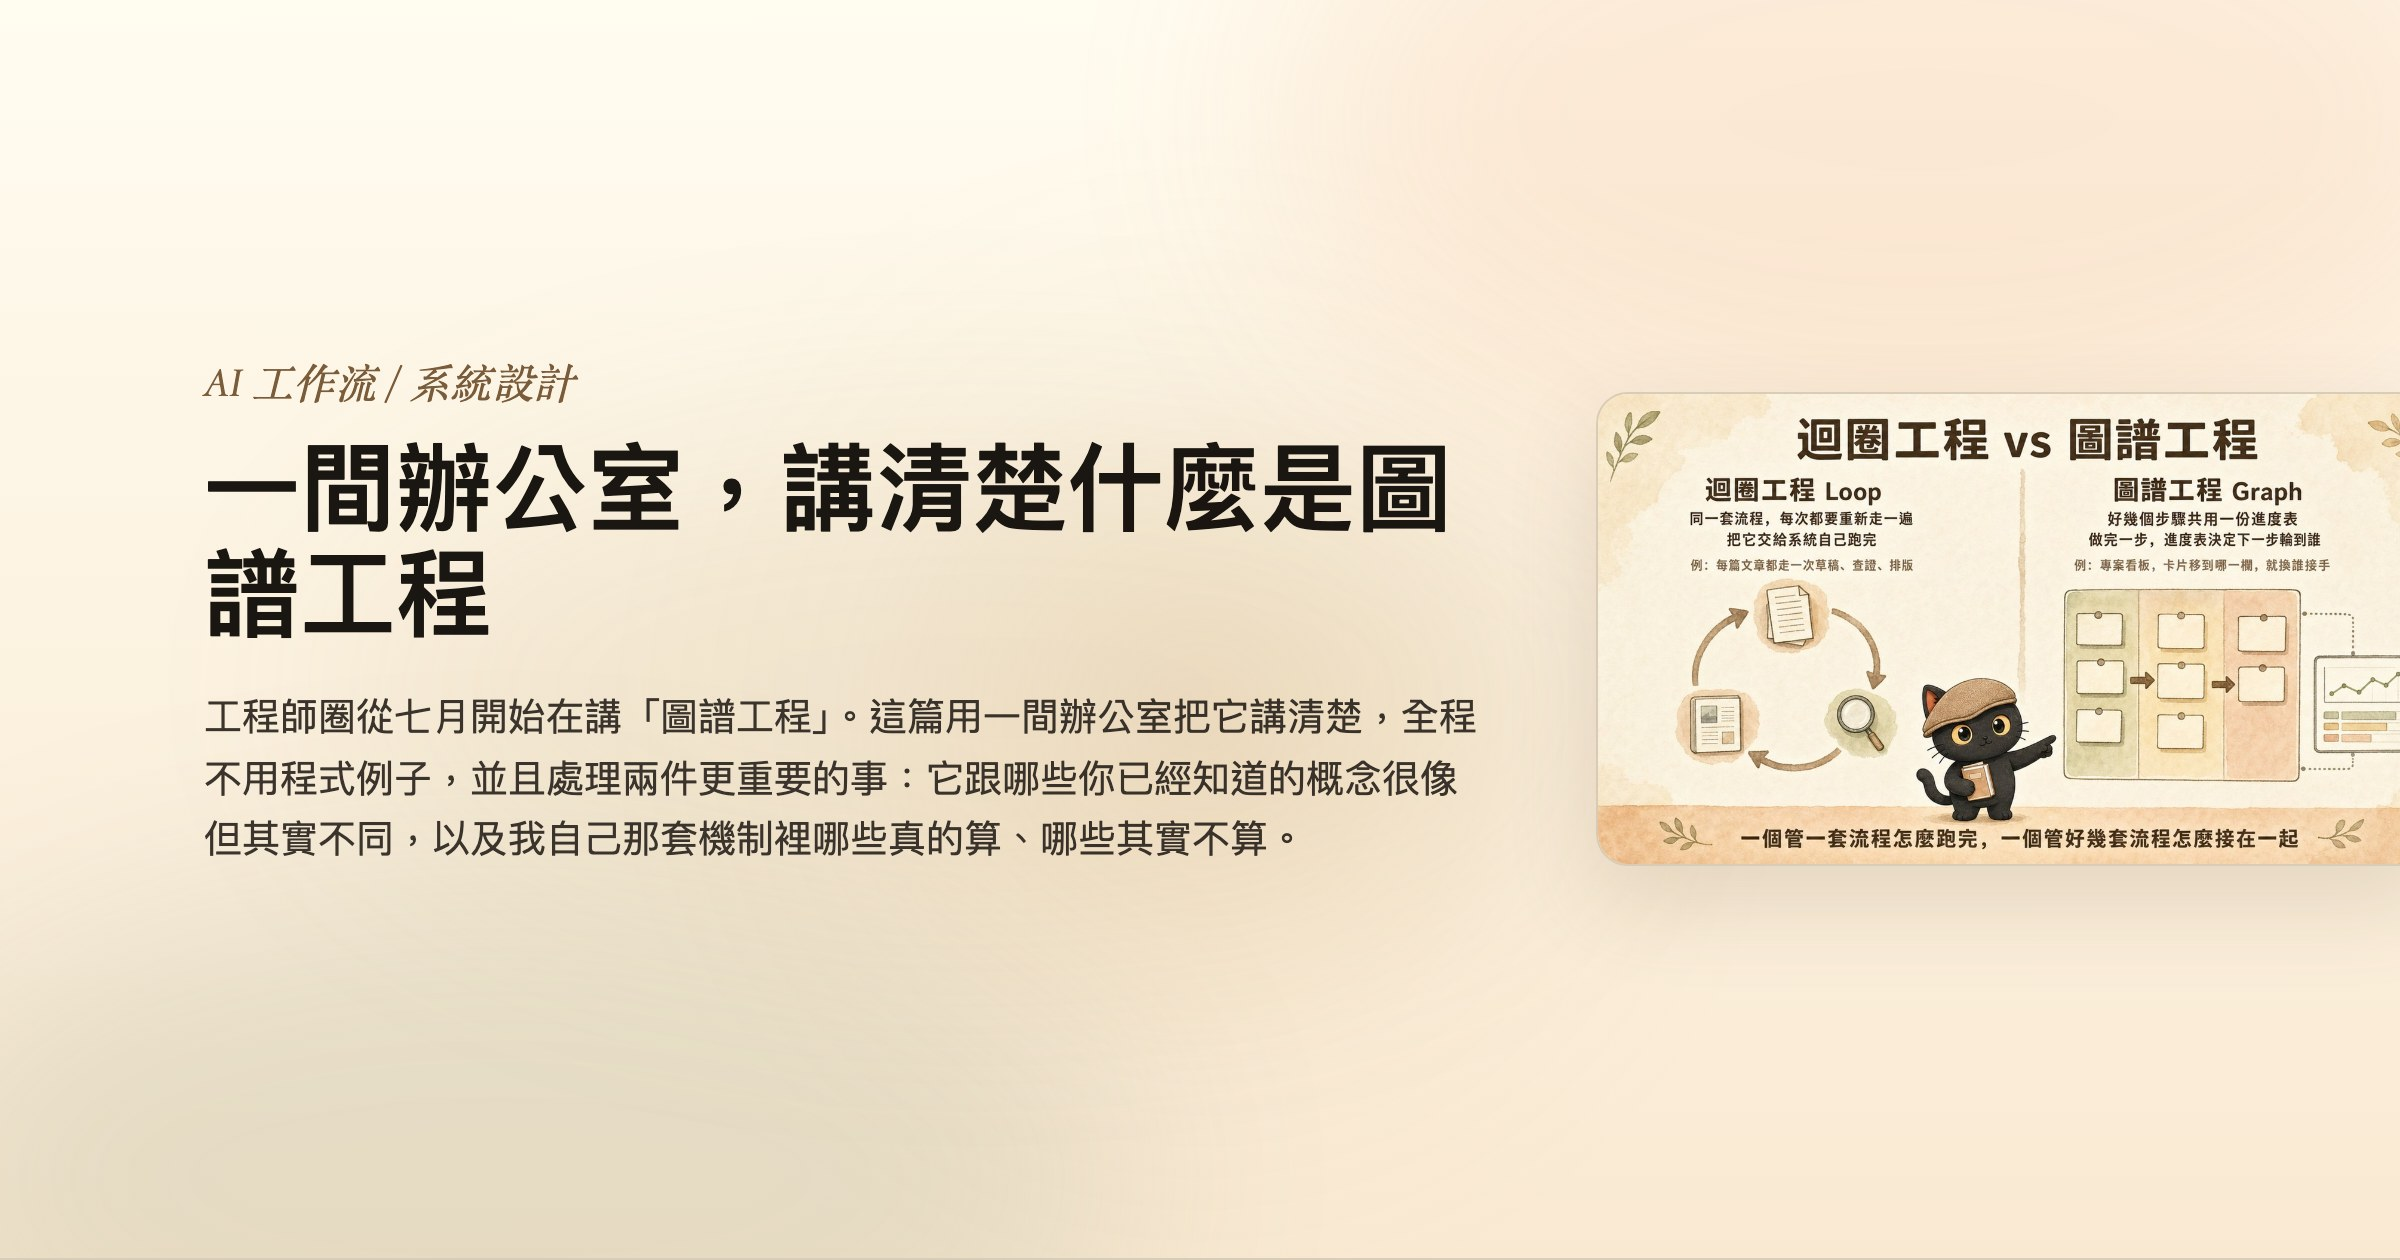
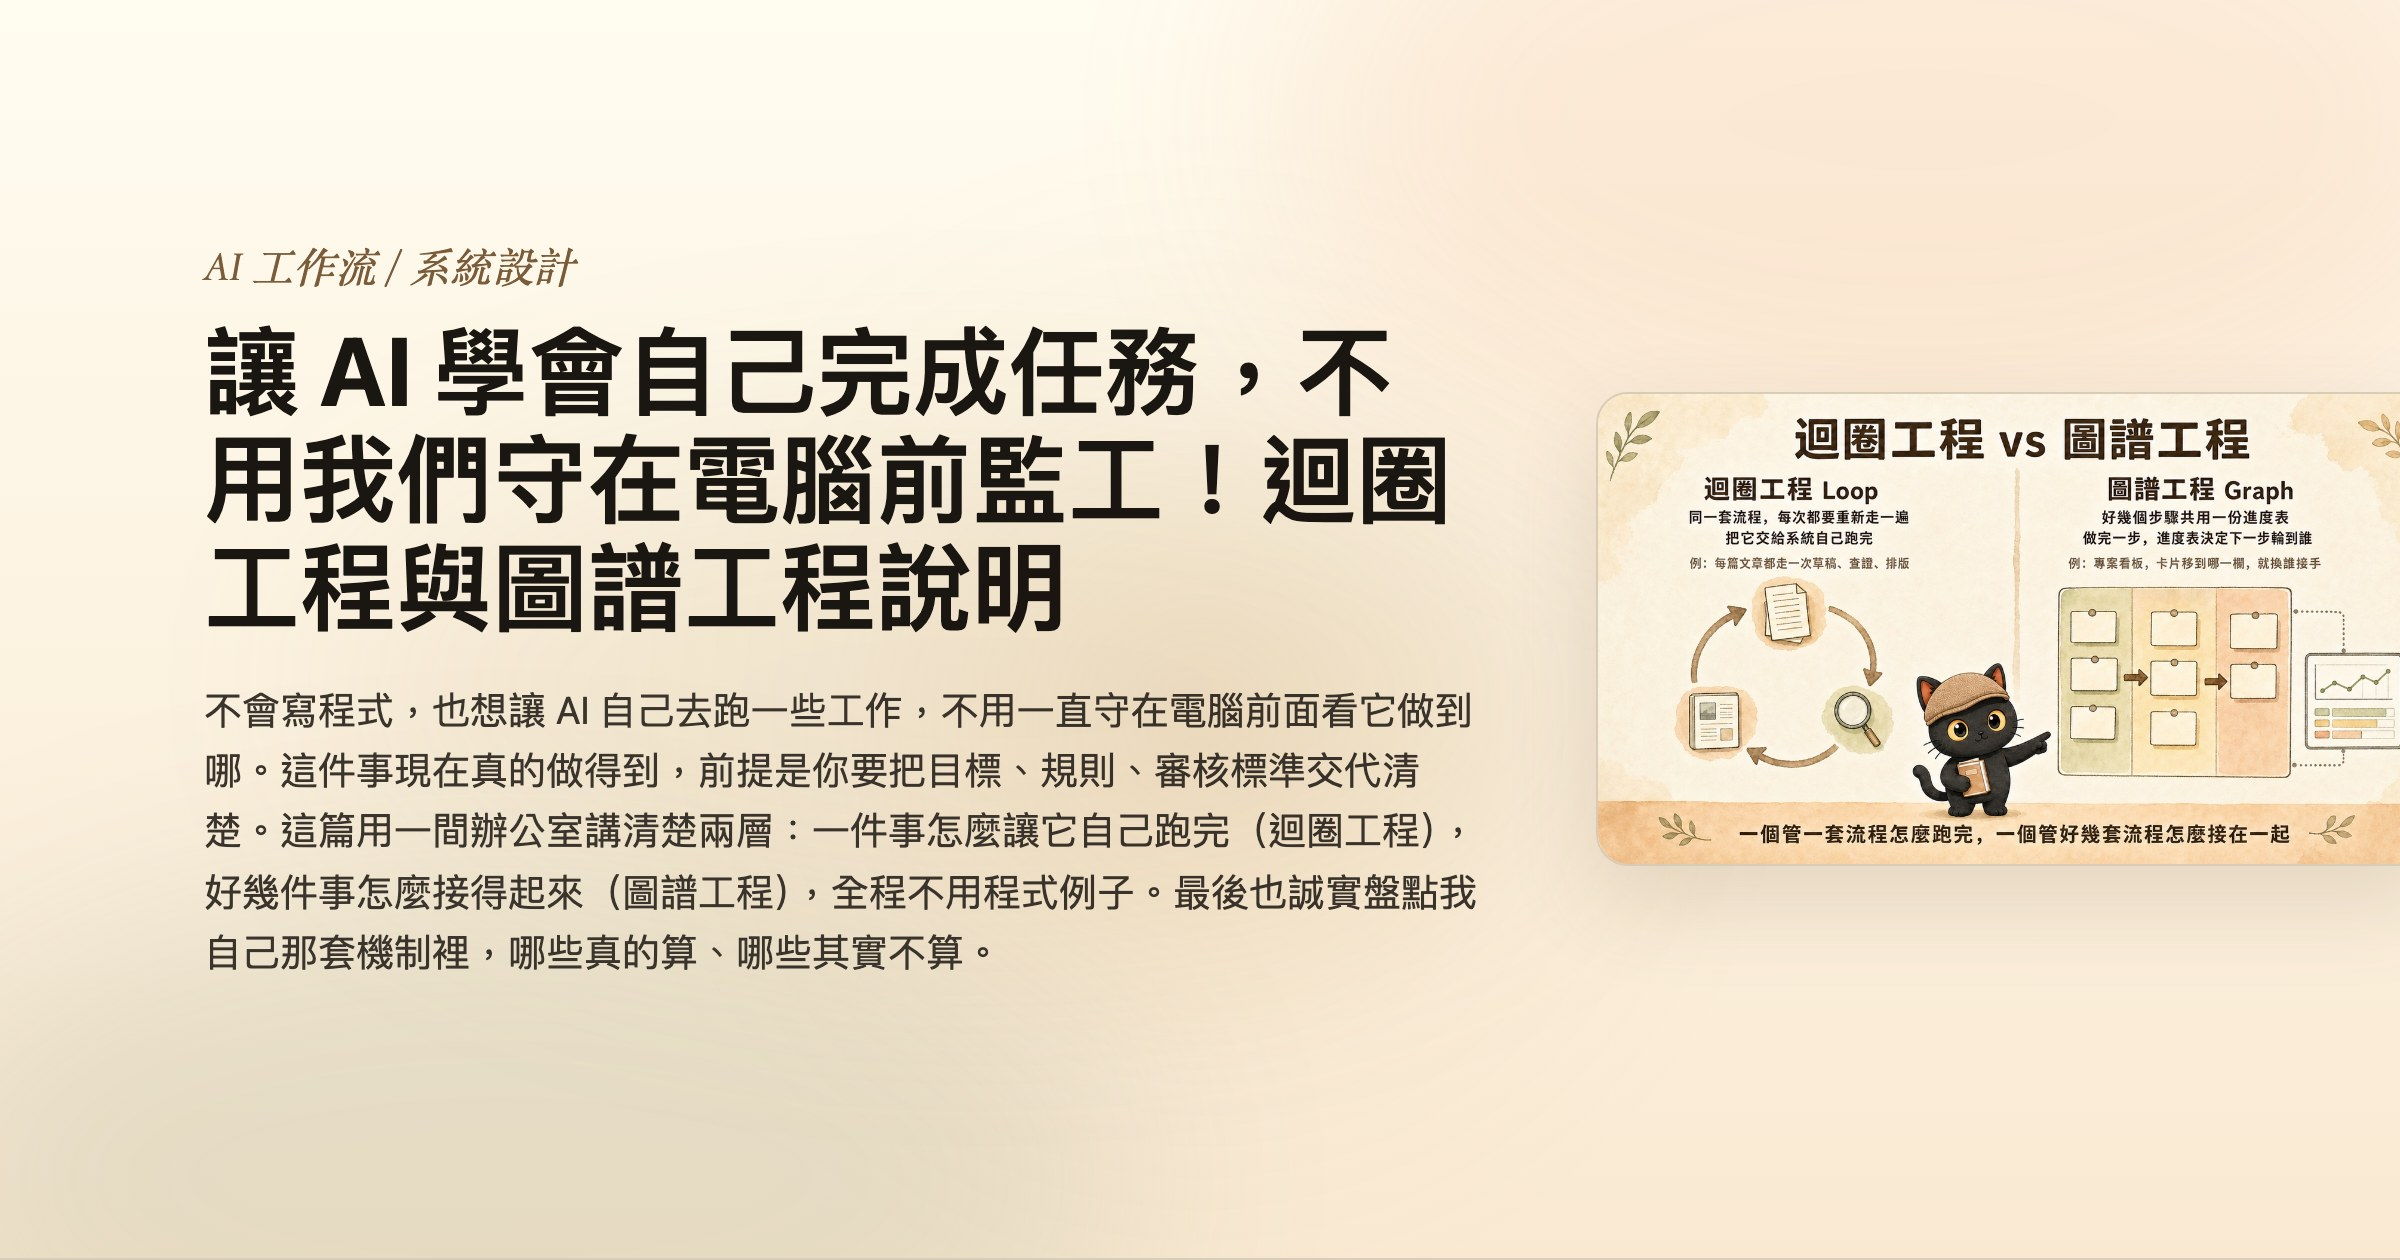
圖譜工程文章改標題與簡介、封面重生（咪卡補回雙耳）

Changed region(s): [[0.0625, 0.1857, 0.625, 0.7738], [0.6875, 0.3095, 1.0, 0.681], [0.9688, 0.3095, 1.0, 0.3714]]

diff --git a/articles/what-is-graph-engineering/index.html b/articles/what-is-graph-engineering/index.html
@@ -4,22 +4,22 @@
 <meta charset="utf-8">
 <meta name="viewport" content="width=device-width,initial-scale=1">
 <meta name="robots" content="index,follow">
-<title>一間辦公室，講清楚什麼是圖譜工程｜江江教練 · AI 知識管理</title>
-<meta name="description" content="圖譜工程聽起來是新名詞，核心跟寫程式沒關係。用一間辦公室講清楚：桌上的交接本是狀態、牆上的派工規則表是邊、上場的助理是節點。再切開六個容易混淆的概念（知識圖譜、迴圈工程、專案管理、互相監督、自動化、狀態機），最後誠實盤點我自己那套機制裡哪些真的算、哪些不算。">
+<title>讓 AI 學會自己完成任務，不用我們守在電腦前監工！迴圈工程與圖譜工程說明｜江江教練 · AI 知識管理</title>
+<meta name="description" content="不會寫程式，也能讓 AI 自己把一件事跑完。只要把目標、規則、審核標準寫清楚，AI 會自己跑、自己檢查、自己修正。這篇用一間辦公室講清楚兩層：迴圈工程讓一件事自己跑完，圖譜工程讓好幾件事接得起來。">
 <link rel="canonical" href="https://jiangyude.com/articles/what-is-graph-engineering/">
 <meta property="og:type" content="article">
-<meta property="og:title" content="一間辦公室，講清楚什麼是圖譜工程｜江江教練">
+<meta property="og:title" content="讓 AI 學會自己完成任務，不用我們守在電腦前監工！迴圈工程與圖譜工程說明｜江江教練">
 <!-- 分享封面：hero 文字填好後在 repo 根目錄跑 `node scripts/og-shot.mjs what-is-graph-engineering` 自動截 1200×630 到 images/og/what-is-graph-engineering.jpg（見 README「文章分享封面（OG 圖）機制」）。別退回 intro-jiang.png 直式人像，會被裁成只剩脖子。 -->
 <meta property="og:image" content="https://jiangyude.com/images/og/what-is-graph-engineering.jpg">
-<meta property="og:description" content="圖譜工程聽起來是新名詞，核心跟寫程式沒關係。用一間辦公室講清楚：桌上的交接本是狀態、牆上的派工規則表是邊、上場的助理是節點。再切開六個容易混淆的概念（知識圖譜、迴圈工程、專案管理、互相監督、自動化、狀態機），最後誠實盤點我自己那套機制裡哪些真的算、哪些不算。">
+<meta property="og:description" content="不會寫程式，也能讓 AI 自己把一件事跑完。只要把目標、規則、審核標準寫清楚，AI 會自己跑、自己檢查、自己修正。這篇用一間辦公室講清楚兩層：迴圈工程讓一件事自己跑完，圖譜工程讓好幾件事接得起來。">
 <meta property="og:url" content="https://jiangyude.com/articles/what-is-graph-engineering/">
 <meta property="og:locale" content="zh_TW">
 <meta property="og:site_name" content="江江教練 · AI 知識管理">
 <meta name="twitter:card" content="summary_large_image">
-<meta name="twitter:title" content="一間辦公室，講清楚什麼是圖譜工程｜江江教練">
+<meta name="twitter:title" content="讓 AI 學會自己完成任務，不用我們守在電腦前監工！迴圈工程與圖譜工程說明｜江江教練">
 <meta name="twitter:image" content="https://jiangyude.com/images/og/what-is-graph-engineering.jpg">
-<meta name="twitter:description" content="圖譜工程聽起來是新名詞，核心跟寫程式沒關係。用一間辦公室講清楚：桌上的交接本是狀態、牆上的派工規則表是邊、上場的助理是節點。再切開六個容易混淆的概念（知識圖譜、迴圈工程、專案管理、互相監督、自動化、狀態機），最後誠實盤點我自己那套機制裡哪些真的算、哪些不算。">
-<script type="application/ld+json">{"@context":"https://schema.org","@type":"Article","headline":"一間辦公室，講清楚什麼是圖譜工程","description":"圖譜工程聽起來是新名詞，核心跟寫程式沒關係。用一間辦公室講清楚：桌上的交接本是狀態、牆上的派工規則表是邊、上場的助理是節點。再切開六個容易混淆的概念（知識圖譜、迴圈工程、專案管理、互相監督、自動化、狀態機），最後誠實盤點我自己那套機制裡哪些真的算、哪些不算。","author":{"@type":"Person","name":"江昱德","alternateName":"江江教練","jobTitle":"隱性知識提煉師、AI 應用規劃師"},"isPartOf":{"@type":"WebSite","name":"江江教練 · AI 知識管理","url":"https://jiangyude.com/"},"inLanguage":"zh-Hant","url":"https://jiangyude.com/articles/what-is-graph-engineering/"}</script>
+<meta name="twitter:description" content="不會寫程式，也能讓 AI 自己把一件事跑完。只要把目標、規則、審核標準寫清楚，AI 會自己跑、自己檢查、自己修正。這篇用一間辦公室講清楚兩層：迴圈工程讓一件事自己跑完，圖譜工程讓好幾件事接得起來。">
+<script type="application/ld+json">{"@context":"https://schema.org","@type":"Article","headline":"讓 AI 學會自己完成任務，不用我們守在電腦前監工！迴圈工程與圖譜工程說明","description":"不會寫程式，也能讓 AI 自己把一件事跑完。只要把目標、規則、審核標準寫清楚，AI 會自己跑、自己檢查、自己修正。這篇用一間辦公室講清楚兩層：迴圈工程讓一件事自己跑完，圖譜工程讓好幾件事接得起來。","author":{"@type":"Person","name":"江昱德","alternateName":"江江教練","jobTitle":"隱性知識提煉師、AI 應用規劃師"},"isPartOf":{"@type":"WebSite","name":"江江教練 · AI 知識管理","url":"https://jiangyude.com/"},"inLanguage":"zh-Hant","url":"https://jiangyude.com/articles/what-is-graph-engineering/"}</script>
 <link rel="preconnect" href="https://fonts.googleapis.com">
 <link rel="preconnect" href="https://fonts.gstatic.com" crossorigin>
 <link rel="stylesheet" href="https://fonts.googleapis.com/css2?family=Cormorant+Garamond:ital,wght@0,400;0,500;0,600;1,400;1,500&family=Caveat:wght@400;500;600;700&family=Noto+Sans+TC:wght@400;500;700&family=JetBrains+Mono:wght@400;500&display=swap">
@@ -168,8 +168,8 @@ body.spotlight::after{content:'';position:fixed;inset:0;background:radial-gradie
   <div class="wc wc3"></div>
   <div>
     <div class="kicker">AI 工作流 / 系統設計</div>
-    <h1>一間辦公室，講清楚什麼是圖譜工程</h1>
-    <p>工程師圈從七月開始在講「圖譜工程」。這篇用一間辦公室把它講清楚，全程不用程式例子，並且處理兩件更重要的事：它跟哪些你已經知道的概念很像但其實不同，以及我自己那套機制裡哪些真的算、哪些其實不算。</p>
+    <h1>讓 AI 學會自己完成任務，不用我們守在電腦前監工！迴圈工程與圖譜工程說明</h1>
+    <p>不會寫程式，也想讓 AI 自己去跑一些工作，不用一直守在電腦前面看它做到哪。這件事現在真的做得到，前提是你要把目標、規則、審核標準交代清楚。這篇用一間辦公室講清楚兩層：一件事怎麼讓它自己跑完（迴圈工程），好幾件事怎麼接得起來（圖譜工程），全程不用程式例子。最後也誠實盤點我自己那套機制裡，哪些真的算、哪些其實不算。</p>
   </div>
   <!-- 封面圖（建議放）：橫式用預設 width:420px；4:5 直式改 .hero-figure{width:320px} 並加 .hero-figure img{aspect-ratio:4/5;object-fit:cover}。沒有封面圖就整個 <figure> 刪掉，hero 會自動置中只剩文字。封面同時設成上面 og:image / twitter:image。 -->
   <figure class="hero-figure">
@@ -489,7 +489,7 @@ body.spotlight::after{content:'';position:fixed;inset:0;background:radial-gradie
       <a href="https://www.threads.com/@jiang_yude_coach" target="_blank" rel="noopener">Threads ↗</a>
       <a href="https://vocus.cc/salon/Jiang_Coach" target="_blank" rel="noopener">方格子 ↗</a>
     </div>
-    <div class="footer-note">這是一篇教學文章，整理我對「一間辦公室，講清楚什麼是圖譜工程」的看法，供你參考。</div>
+    <div class="footer-note">這是一篇教學文章，整理我對「讓 AI 學會自己完成任務，不用我們守在電腦前監工！迴圈工程與圖譜工程說明」的看法，供你參考。</div>
   </div>
 </footer>
 

diff --git a/search-aliases.js b/search-aliases.js
@@ -131,5 +131,5 @@ window.SEARCH_ALIASES = {
   "parallel-site-editing": ["兩個AI一起用會打架","AI互相蓋掉檔案","網站被蓋回舊版","多人改同一個網站","git worktree是什麼","一人一張桌子","部署互卡怎麼辦","版本衝突怎麼解","AI同時施工怎麼隔離","合併上線","每日巡檢","三件套"],
   "personal-poster-and-wallpaper": ["怎麼用AI做自己的電影海報","手機桌布自己做","把自己的照片變成海報","AI生的圖不像我怎麼辦","臉跑掉了怎麼救","把風景穿在身上","衣服上有風景的那種圖","個人形象照怎麼生","樂齡AI課在做什麼","長輩用手機做圖","生圖額度用完怎麼辦","免費版一天可以生幾張","ChatGPT額度滿了換什麼","逆光拍照臉很黑","圖存不下來找不到","圖片存到相簿","做一張自己當主角的圖","電影海報風格提示詞","插畫版跟海報版差在哪","一張照片兩種成品","一家人一起生一張圖","合照做海報"],
   "webnode-to-cloudflare-pages": ["Webnode 太貴","Webnode 一年多少錢","Webnode 免費版可以用嗎","Wix 每年要付多少","建站平台月費好貴","不想再付架站費","網站搬家怎麼搬","把網站從平台搬走","整站備份怎麼做","備份整個網站","方案要到期了網站怎麼辦","平台到期網站會不會不見","相簿的圖沒抓到","備份完照片不見","抓下來的網站圖片破圖","wget 抓網站抓不完整","攝影師的官網放哪裡","作品集網站免費架","自己的網域要不要買","網址是平台的有差嗎","子網域對 SEO 有影響嗎","搬家後 SEO 會不會歸零","301 轉址做不到","Cloudflare Pages 免費嗎","不會寫網頁可以自己架站嗎","AI 可以幫我做網站嗎"],
-  "what-is-graph-engineering": ["圖譜工程是什麼","什麼是圖譜工程","graph engineering","圖譜工程跟迴圈工程差在哪","迴圈工程下一層","AI 工作流怎麼接起來","好幾個 AI 怎麼協作","多個 AI 各做各的","AI 工作串不起來","狀態 節點 邊","知識圖譜跟圖譜工程一樣嗎","這不就是專案管理嗎","看板可以拿來管 AI 嗎","AI 不會自己判斷怎麼辦","AI 一路跑到底出錯","換一家 AI 審稿","跨家審查怎麼做","審稿提示詞","AI 只會說很好客套話","工作流編排","狀態機 AI","多個 agent 編排","LangGraph 是什麼","AI 幫我做事我不放心"],
+  "what-is-graph-engineering": ["圖譜工程是什麼", "什麼是圖譜工程", "graph engineering", "圖譜工程跟迴圈工程差在哪", "迴圈工程下一層", "AI 工作流怎麼接起來", "好幾個 AI 怎麼協作", "多個 AI 各做各的", "AI 工作串不起來", "狀態 節點 邊", "知識圖譜跟圖譜工程一樣嗎", "這不就是專案管理嗎", "看板可以拿來管 AI 嗎", "AI 不會自己判斷怎麼辦", "AI 一路跑到底出錯", "換一家 AI 審稿", "跨家審查怎麼做", "審稿提示詞", "AI 只會說很好客套話", "工作流編排", "狀態機 AI", "多個 agent 編排", "LangGraph 是什麼", "AI 幫我做事我不放心", "不用守在電腦前", "不用監工", "AI 自己跑完", "AI 自己檢查自己修正", "不會寫程式也能自動化", "文科生 AI 自動化", "讓 AI 自己完成任務", "目標規則審核標準", "從電腦前解放"],
 };

diff --git a/articles-data.js b/articles-data.js
@@ -40,10 +40,10 @@ window.ARTICLES = [
     url: "articles/what-is-graph-engineering/",
     date: "2026-08-24",
     updated: "2026-08-24",
-    title: "一間辦公室，講清楚什麼是圖譜工程",
-    problem: "工程師圈在講「圖譜工程」，聽起來又是一個新名詞。網路上的解釋彼此不一致，而且看完不知道跟自己有什麼關係。",
-    audience: "已經會讓 AI 自己跑完一件事、想知道再上去那層是什麼的人；同時在做好幾種產出、覺得它們串不起來的人；用看板管專案、想知道這個新名詞跟自己有沒有關係的人。",
-    summary: "用一間辦公室把圖譜工程講清楚，全程不用程式例子：桌上的交接本是狀態、牆上的派工規則表是邊、上場的助理是節點。先花兩分鐘講前一層的迴圈工程（一個助理把一件事自己做到好），再進到圖譜（好幾個助理怎麼接起來）。接著切開六個容易混淆的概念：知識圖譜、迴圈工程、專案管理、互相監督、自動化、狀態機與工作流編排，其中專案管理那個的關鍵差別是助理從人變成 AI，人會自己補上沒寫出來的判斷，AI 不會。最後誠實盤點作者自己的機制，哪些真的算、哪些其實不算，並給一段可直接複製的跨家審查提示詞。",
+    title: "讓 AI 學會自己完成任務，不用我們守在電腦前監工！迴圈工程與圖譜工程說明",
+    problem: "很想用 AI 把工作自動化，但不會寫程式，看到「迴圈工程」「圖譜工程」這種名詞就先卡住。網路上的解釋彼此不一致，而且看完還是不知道跟自己有什麼關係、自己能不能用。",
+    audience: "不會寫程式、但想讓 AI 自己把工作跑完的人；已經會讓 AI 跑完一件事、想知道再上去那層是什麼的人；同時在做好幾種產出、覺得它們串不起來的人；用看板管專案、想知道這個新名詞跟自己有沒有關係的人。",
+    summary: "不會寫程式也能讓 AI 自己把一件事跑完，前提是把目標、規則、審核標準交代清楚。這篇用一間辦公室講清楚兩層，全程不用程式例子：先花兩分鐘講迴圈工程（一個助理把一件事自己做到好、自己檢查、自己修正，你不用在旁邊監工），再進到圖譜工程（好幾個助理怎麼接起來）。辦公室的三樣東西對應三個正式名詞：桌上的交接本是狀態、牆上的派工規則表是邊、上場的助理是節點。接著切開六個容易混淆的概念：知識圖譜、迴圈工程、專案管理、互相監督、自動化、狀態機與工作流編排，其中專案管理那個的關鍵差別是助理從人變成 AI，人會自己補上沒寫出來的判斷，AI 不會。最後誠實盤點作者自己的機制，哪些真的算、哪些其實不算，並給一段可直接複製的跨家審查提示詞。",
     tags: {
       topic: ["AI工作流", "系統設計", "知識管理", "AIAgent"],
       level: ["基礎"],
